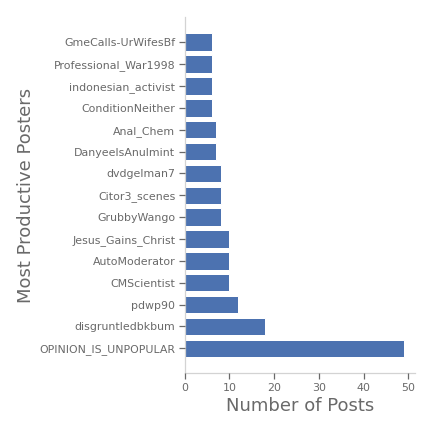
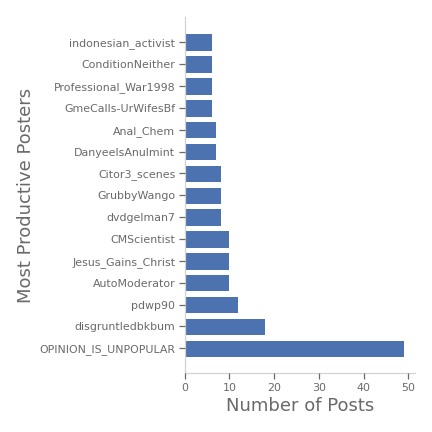
impact relationships

diff --git a/wsba.py b/wsba.py
@@ -596,7 +596,7 @@ def fig_field_by_field(fielda='score',fieldb='score',logx=False,logy=False,save=
         
     _=plt.tight_layout()
     if save:
-        filename = f'figures/{fielda}_by_{fieldb}{logx}{logy}.png'
+        filename = f'figures/{fielda}_by_{fieldb}{logx}{logy}{xmax}.png'
         _=plt.savefig(filename)
         print(f'![Figure]({filename})')
         return    

diff --git a/README.md b/README.md
@@ -48,15 +48,15 @@ A total of 1408 submission authors are represented in the data. The plot below s
 | <a href=https://www.reddit.com/user/CMScientist/>CMScientist</a> | 10 |
 | <a href=https://www.reddit.com/user/AutoModerator/>AutoModerator</a> | 10 |
 | <a href=https://www.reddit.com/user/Jesus_Gains_Christ/>Jesus_Gains_Christ</a> | 10 |
-| <a href=https://www.reddit.com/user/dvdgelman7/>dvdgelman7</a> | 8 |
 | <a href=https://www.reddit.com/user/GrubbyWango/>GrubbyWango</a> | 8 |
 | <a href=https://www.reddit.com/user/Citor3_scenes/>Citor3_scenes</a> | 8 |
+| <a href=https://www.reddit.com/user/dvdgelman7/>dvdgelman7</a> | 8 |
 | <a href=https://www.reddit.com/user/DanyeelsAnulmint/>DanyeelsAnulmint</a> | 7 |
 | <a href=https://www.reddit.com/user/Anal_Chem/>Anal_Chem</a> | 7 |
-| <a href=https://www.reddit.com/user/GmeCalls-UrWifesBf/>GmeCalls-UrWifesBf</a> | 6 |
 | <a href=https://www.reddit.com/user/ConditionNeither/>ConditionNeither</a> | 6 |
 | <a href=https://www.reddit.com/user/indonesian_activist/>indonesian_activist</a> | 6 |
 | <a href=https://www.reddit.com/user/Professional_War1998/>Professional_War1998</a> | 6 |
+| <a href=https://www.reddit.com/user/GmeCalls-UrWifesBf/>GmeCalls-UrWifesBf</a> | 6 |
 
 # Some Initial Observations
 1. Stocks are sometimes written in capital letters in the middle of a word
@@ -112,11 +112,11 @@ No obvious relationship exists between score and submission age, but this is a c
 
 # Impact Relationships
 
-![Figure](figures/num_comments_by_score.png)
+![Figure](figures/num_comments_by_scoreNone.png)
 <Figure size 432x432 with 1 Axes>
 
 
-![Figure](figures/num_comments_by_score.png)
+![Figure](figures/num_comments_by_score2000.png)
 <Figure size 432x432 with 1 Axes>
 
 
